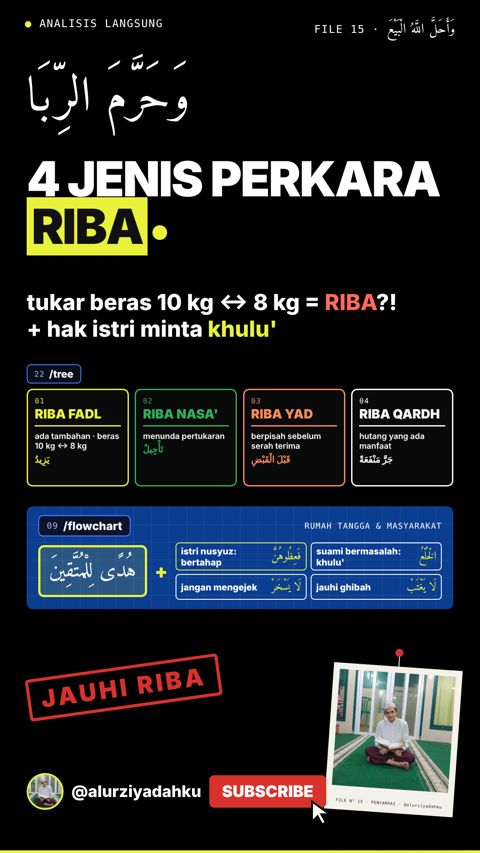
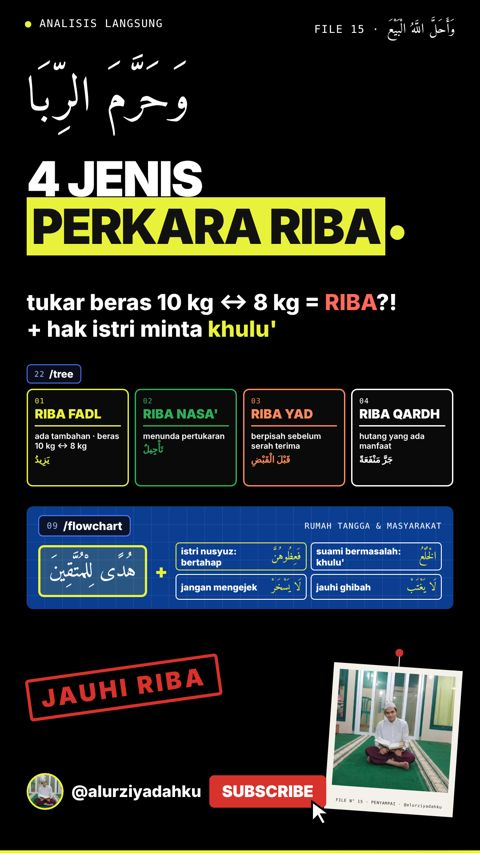
Ep15 cover v3: PERKARA RIBA di bawah 4 JENIS
Claude-Session: https://claude.ai/code/session_01WaGvaQ8AToXUR11At2caAy

Changed region(s): [[0.0938, 0.1829, 0.9375, 0.3048]]

diff --git a/kit/covers/cover_ep.html b/kit/covers/cover_ep.html
@@ -19,7 +19,7 @@ body{background:#000;color:#fff;font-family:Inter,sans-serif;overflow:hidden}
 <script>
 const EP = new URLSearchParams(location.search).get('ep') || '3';
 const C = {
- '15': { no: '15', topik: 'وَأَحَلَّ اللَّهُ الْبَيْعَ', ar: 'وَحَرَّمَ الرِّبَا', t1: '4 JENIS PERKARA', t2: 'RIBA', fs: .8, hook: 'tukar beras 10 kg ↔ 8 kg = <span style="color:#ff6a5c">RIBA</span>?!<br>+ hak istri minta <span style="color:#e9f23a">khulu\'</span>', stamp: 'JAUHI RIBA',
+ '15': { no: '15', topik: 'وَأَحَلَّ اللَّهُ الْبَيْعَ', ar: 'وَحَرَّمَ الرِّبَا', t1: '4 JENIS', t2: 'PERKARA RIBA', fs: .8, hook: 'tukar beras 10 kg ↔ 8 kg = <span style="color:#ff6a5c">RIBA</span>?!<br>+ hak istri minta <span style="color:#e9f23a">khulu\'</span>', stamp: 'JAUHI RIBA',
    tag1: ['22', '/tree'], cards: [['RIBA FADL', 'ada tambahan · beras 10 kg ↔ 8 kg', 'يَزِيدُ', '#e9f23a'], ['RIBA NASA\'', 'menunda pertukaran', 'تَأْجِيلٌ', '#2fae5b'], ['RIBA YAD', 'berpisah sebelum serah terima', 'قَبْلَ الْقَبْضِ', '#ff8a5c'], ['RIBA QARDH', 'hutang yang ada manfaat', 'جَرَّ مَنْفَعَةً', '#ffffff']],
    tag2: ['09', '/flowchart'], bpTitle: 'RUMAH TANGGA & MASYARAKAT', bpCenter: 'هُدًى لِلْمُتَّقِينَ', bpItems: [['istri nusyuz: bertahap', 'فَعِظُوهُنَّ'], ["suami bermasalah: khulu'", 'الْخُلْعُ'], ['jangan mengejek', 'لَا يَسْخَرْ'], ['jauhi ghibah', 'لَا يَغْتَبْ']] },
  '14': { no: '14', topik: 'هُدًى لِلْمُتَّقِينَ', ar: 'هُدًى لِلْمُتَّقِينَ', t1: 'PETUNJUK', t2: 'TAKWA HARIAN', fs: .85, hook: 'cukur alis <span style="color:#ff6a5c">dilaknat</span>?!<br>makan, pakaian, <span style="color:#e9f23a">jodoh &amp; rumah tangga</span>', stamp: 'SECUKUPNYA',

diff --git a/kit/covers/shot_peny15v3.js b/kit/covers/shot_peny15v3.js
@@ -1,0 +1,6 @@
+const {chromium}=require('playwright');
+const E=[['15','4 JENIS','PERKARA RIBA.']];
+(async()=>{const b=await chromium.launch({executablePath:'/opt/pw-browsers/chromium',args:['--allow-file-access-from-files']});
+const p=await b.newPage({viewport:{width:1080,height:1350},deviceScaleFactor:2});
+for(const [e,a,c] of E){await p.goto(`file:///home/claude/covers/seri_latin_peny.html?ep=${e}&l1=${encodeURIComponent(a)}&l2=${encodeURIComponent(c)}`);await p.waitForTimeout(900);await p.screenshot({path:`/home/claude/covers/peny_${e}_v3.png`});}
+await b.close();})();

diff --git a/kit/covers/shot15v3.js b/kit/covers/shot15v3.js
@@ -1,0 +1,6 @@
+const {chromium}=require('playwright');
+(async()=>{const b=await chromium.launch({executablePath:'/opt/pw-browsers/chromium',args:['--allow-file-access-from-files']});
+for(const ep of ['15'])for(const [v,w,h] of [['yt',1920,1080],['reel',1080,1920]]){const p=await b.newPage({viewport:{width:w,height:h}});
+await p.goto(`file:///home/claude/covers/cover_ep.html?ep=${ep}&v=${v}`);await p.waitForTimeout(1200);
+await p.screenshot({path:`/home/claude/covers/ep${ep}_${v}_v3.png`});}
+await b.close();})();
